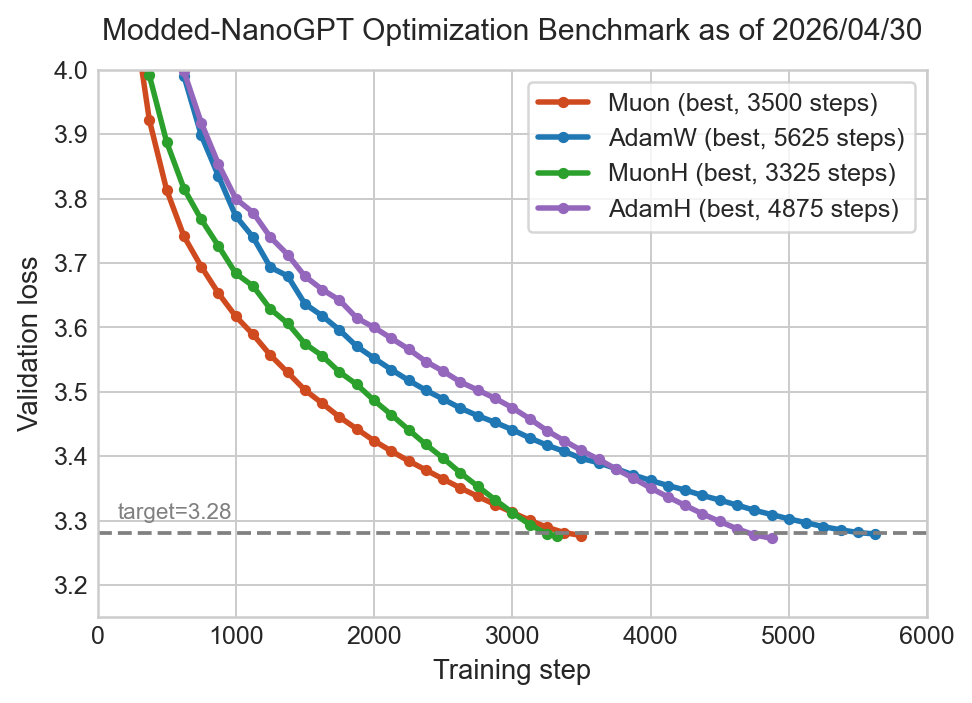
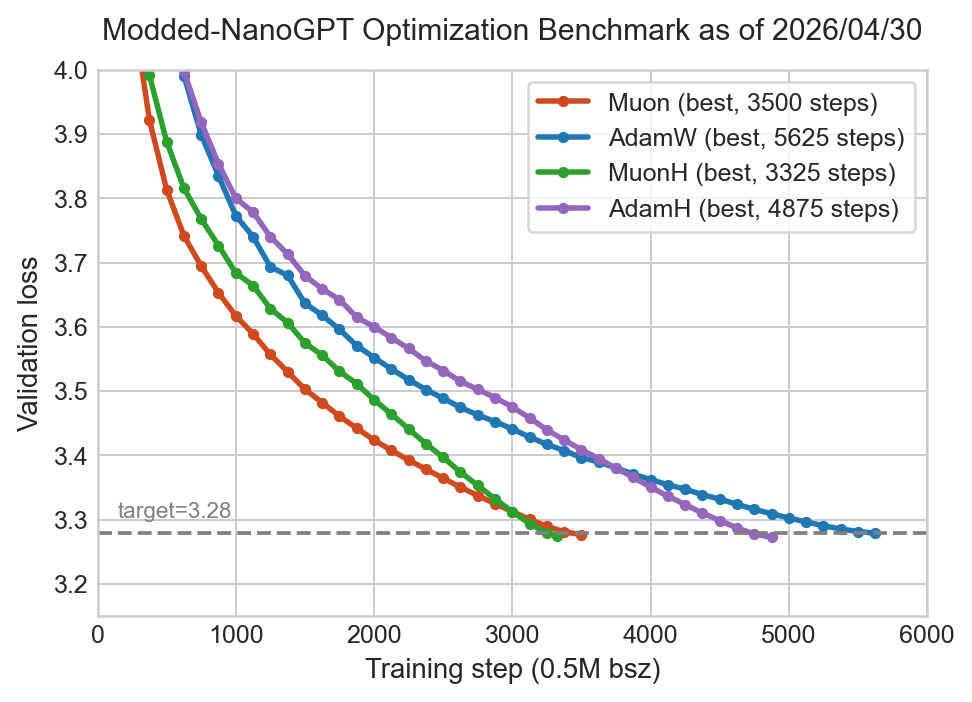
.

diff --git a/records/track_3_optimization/make_figure.py b/records/track_3_optimization/make_figure.py
@@ -51,7 +51,7 @@ ax.annotate(
 )
 
 ax.set_title('Modded-NanoGPT Optimization Benchmark as of 2026/04/30', pad=12, fontsize=12)
-ax.set_xlabel('Training step', fontsize=11)
+ax.set_xlabel('Training step (0.5M bsz)', fontsize=11)
 ax.set_ylabel('Validation loss', fontsize=11)
 ax.legend(frameon=True)
 ax.set_xlim(0, 6000)
